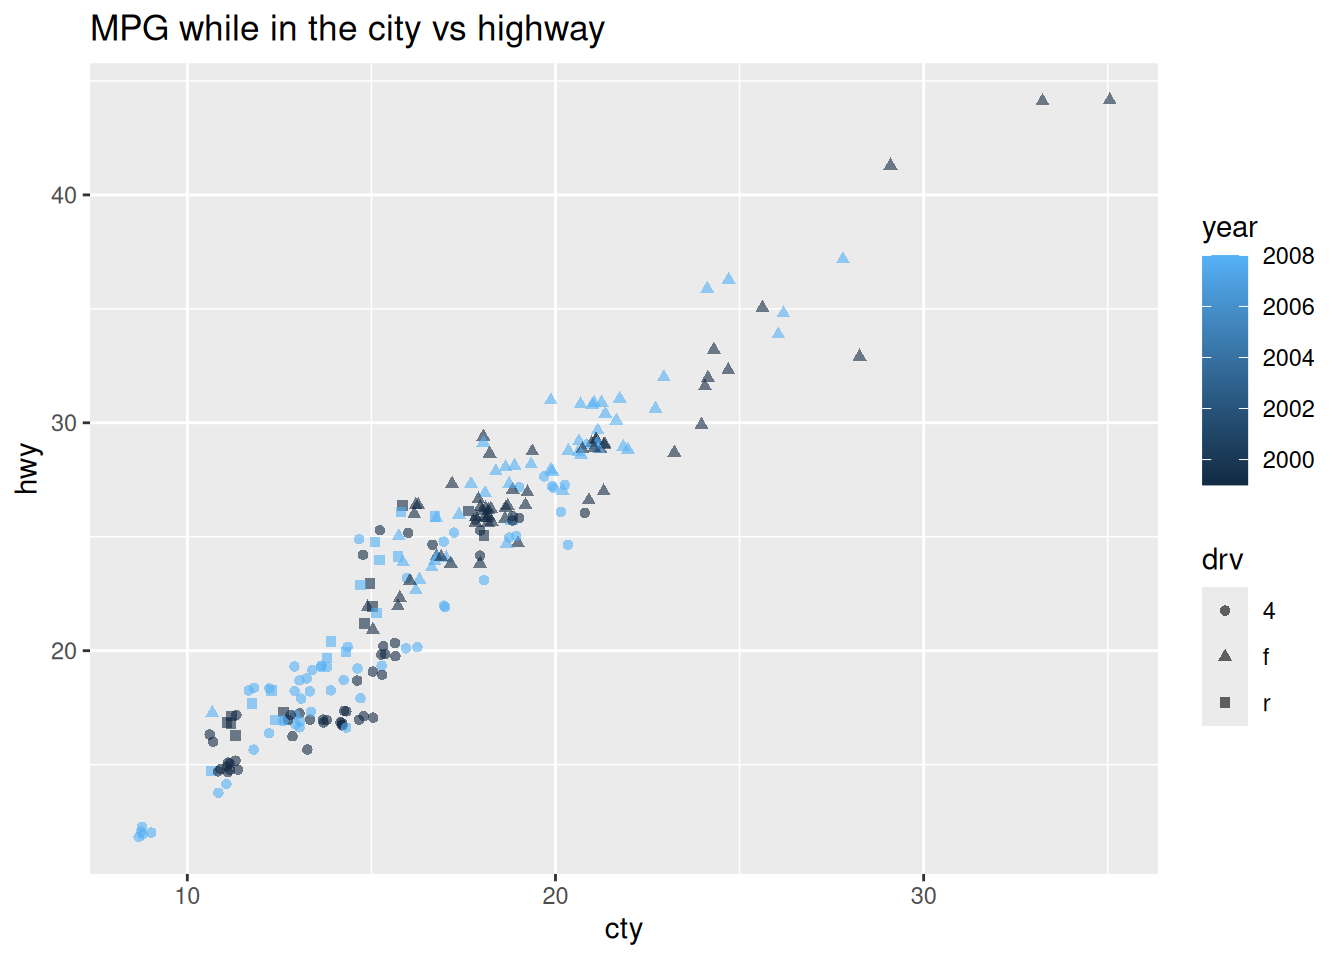
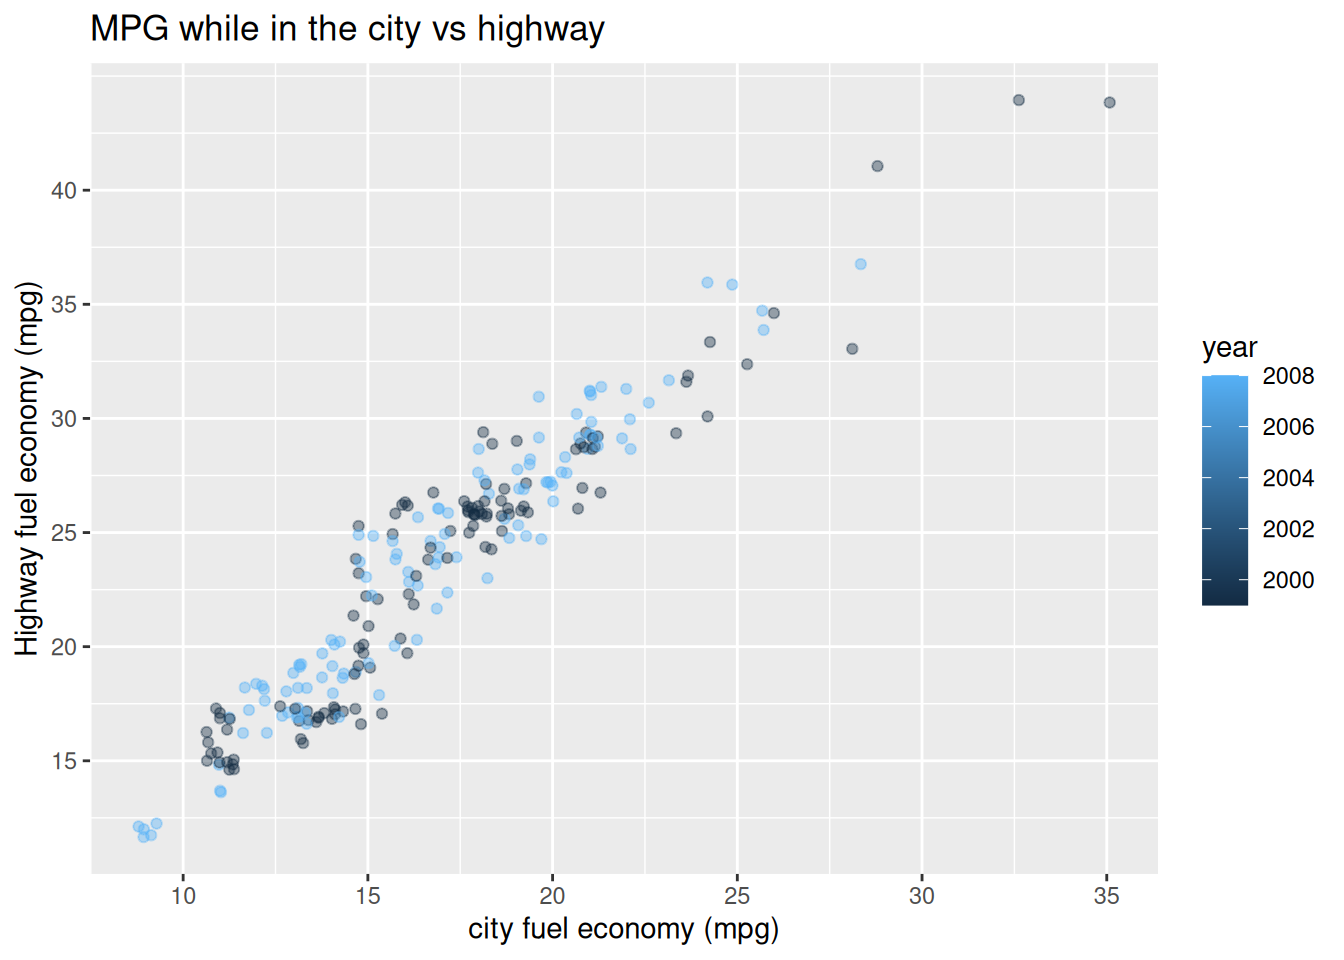
test

diff --git a/docs/posts/ggplot_work/index.html b/docs/posts/ggplot_work/index.html
@@ -9,7 +9,7 @@
 <meta name="author" content="Joshua Matamoros">
 <meta name="dcterms.date" content="2026-08-19">
 
-<title>gg_plot examples – quartoCourseBlog</title>
+<title>My First Project (Kinda) – quartoCourseBlog</title>
 <style>
 code{white-space: pre-wrap;}
 span.smallcaps{font-variant: small-caps;}
@@ -152,7 +152,7 @@ pre > code.sourceCode > span > a:first-child::before { text-decoration: underlin
 <header id="title-block-header" class="quarto-title-block default page-columns page-full">
   <div class="quarto-title-banner page-columns page-full">
     <div class="quarto-title column-body">
-      <h1 class="title">gg_plot examples</h1>
+      <h1 class="title">My First Project (Kinda)</h1>
                                 <div class="quarto-categories">
                 <div class="quarto-category">project</div>
                 <div class="quarto-category">code</div>
@@ -192,7 +192,8 @@ pre > code.sourceCode > span > a:first-child::before { text-decoration: underlin
 
 
 
-<p>I took a week long course on R. We spent our time learning and coding with ggplot.</p>
+<p>Hello! Welcome to my first project (kinda). This blog will demonstrate some skills that I have learned after taking a week long course for R.</p>
+<p>Down below I have coded some graphs involving data about vehicles and their mileage depending on whether its being driven in city conditions or highway conditions.</p>
 <div class="cell">
 <div class="code-copy-outer-scaffold"><div class="sourceCode cell-code" id="cb1"><pre class="sourceCode r code-with-copy"><code class="sourceCode r"><span id="cb1-1"><a href="#cb1-1" aria-hidden="true" tabindex="-1"></a><span class="fu">library</span>(ggplot2)</span>
 <span id="cb1-2"><a href="#cb1-2" aria-hidden="true" tabindex="-1"></a></span>
@@ -229,6 +230,9 @@ pre > code.sourceCode > span > a:first-child::before { text-decoration: underlin
 </div>
 </div>
 </div>
+<p>I have also included a data table which mirrors the information displayed on the graph.</p>
+<p>This graph involves minimal coding, only really focusing on how the mileage performs based on the year of the vehicle.</p>
+<p>There are several ways that this graph can be improved.</p>
 <div class="cell">
 <div class="code-copy-outer-scaffold"><div class="sourceCode cell-code" id="cb4"><pre class="sourceCode r code-with-copy"><code class="sourceCode r"><span id="cb4-1"><a href="#cb4-1" aria-hidden="true" tabindex="-1"></a><span class="fu">ggplot</span>(</span>
 <span id="cb4-2"><a href="#cb4-2" aria-hidden="true" tabindex="-1"></a>  <span class="at">data =</span> mpg,</span>
@@ -236,10 +240,14 @@ pre > code.sourceCode > span > a:first-child::before { text-decoration: underlin
 <span id="cb4-4"><a href="#cb4-4" aria-hidden="true" tabindex="-1"></a>    <span class="at">x =</span> cty,</span>
 <span id="cb4-5"><a href="#cb4-5" aria-hidden="true" tabindex="-1"></a>    <span class="at">y =</span> hwy,</span>
 <span id="cb4-6"><a href="#cb4-6" aria-hidden="true" tabindex="-1"></a>    <span class="at">color =</span> year,</span>
-<span id="cb4-7"><a href="#cb4-7" aria-hidden="true" tabindex="-1"></a>    <span class="at">shape =</span> drv</span>
-<span id="cb4-8"><a href="#cb4-8" aria-hidden="true" tabindex="-1"></a>  ) </span>
-<span id="cb4-9"><a href="#cb4-9" aria-hidden="true" tabindex="-1"></a>) <span class="sc">+</span> <span class="fu">geom_point</span>(<span class="at">position =</span> <span class="st">"jitter"</span>, <span class="at">alpha =</span> <span class="fl">0.6</span>) <span class="sc">+</span></span>
-<span id="cb4-10"><a href="#cb4-10" aria-hidden="true" tabindex="-1"></a>  <span class="fu">labs</span>(<span class="at">title =</span> <span class="st">"MPG while in the city vs highway"</span>)</span></code></pre></div><button title="Copy to Clipboard" class="code-copy-button"><i class="bi"></i></button></div>
+<span id="cb4-7"><a href="#cb4-7" aria-hidden="true" tabindex="-1"></a>  ) </span>
+<span id="cb4-8"><a href="#cb4-8" aria-hidden="true" tabindex="-1"></a>) <span class="sc">+</span> <span class="fu">geom_point</span>(<span class="at">position =</span> <span class="st">"jitter"</span>, <span class="at">alpha =</span> <span class="fl">0.4</span>)  <span class="sc">+</span></span>
+<span id="cb4-9"><a href="#cb4-9" aria-hidden="true" tabindex="-1"></a>  <span class="fu">labs</span>(</span>
+<span id="cb4-10"><a href="#cb4-10" aria-hidden="true" tabindex="-1"></a>    <span class="at">title =</span> <span class="st">"MPG while in the city vs highway"</span>,</span>
+<span id="cb4-11"><a href="#cb4-11" aria-hidden="true" tabindex="-1"></a>    <span class="at">x =</span> <span class="st">"city fuel economy (mpg)"</span>,</span>
+<span id="cb4-12"><a href="#cb4-12" aria-hidden="true" tabindex="-1"></a>    <span class="at">y =</span> <span class="st">"Highway fuel economy (mpg)"</span>,</span>
+<span id="cb4-13"><a href="#cb4-13" aria-hidden="true" tabindex="-1"></a>    ) <span class="sc">+</span>  <span class="fu">scale_y_continuous</span>(<span class="at">breaks =</span> <span class="fu">seq</span>(<span class="dv">0</span>, <span class="dv">40</span>, <span class="at">by =</span> <span class="dv">5</span>)) <span class="sc">+</span></span>
+<span id="cb4-14"><a href="#cb4-14" aria-hidden="true" tabindex="-1"></a>    <span class="fu">scale_x_continuous</span>(<span class="at">breaks =</span> <span class="fu">seq</span>(<span class="dv">0</span>, <span class="dv">40</span>, <span class="at">by =</span> <span class="dv">5</span>)) </span></code></pre></div><button title="Copy to Clipboard" class="code-copy-button"><i class="bi"></i></button></div>
 <div class="cell-output-display">
 <div>
 <figure class="figure">
@@ -248,6 +256,8 @@ pre > code.sourceCode > span > a:first-child::before { text-decoration: underlin
 </div>
 </div>
 </div>
+<p>Some ways that this graph was improved were the additions of labels on the x-axis and the y-axis. A title was also added, and more increments were added to understand the graph more clearly.</p>
+<p>For the last graph, I will be implementing all the skills I have learned in this course for graph making.</p>
 
 
 

diff --git a/docs/index.html b/docs/index.html
@@ -271,7 +271,7 @@ Joshua Matamoros
 </a>
 </div>
 </div>
-<div class="quarto-post image-right" data-index="2" data-categories="cHJvamVjdCUyQ2NvZGU=" data-listing-date-sort="1787097600000" data-listing-file-modified-sort="1787163211739" data-listing-date-modified-sort="NaN" data-listing-reading-time-sort="1" data-listing-word-count-sort="107">
+<div class="quarto-post image-right" data-index="2" data-categories="cHJvamVjdCUyQ2NvZGU=" data-listing-date-sort="1787097600000" data-listing-file-modified-sort="1787164444920" data-listing-date-modified-sort="NaN" data-listing-reading-time-sort="2" data-listing-word-count-sort="276">
 <div class="thumbnail"><a href="./posts/ggplot_work/index.html" class="no-external">
 
 <p class="card-img-top"><img src="posts/ggplot_work/index_files/figure-html/unnamed-chunk-1-1.png"  class="thumbnail-image card-img"/></p>
@@ -279,7 +279,7 @@ Joshua Matamoros
 </a></div>
 <div class="body">
 <h3 class="no-anchor listing-title">
-<a href="./posts/ggplot_work/index.html" class="no-external">gg_plot examples</a>
+<a href="./posts/ggplot_work/index.html" class="no-external">My First Project (Kinda)</a>
 </h3>
 <div class="listing-categories">
 
@@ -289,7 +289,7 @@ Joshua Matamoros
 
 </div>
 <div class="delink listing-description"><a href="./posts/ggplot_work/index.html" class="no-external">
-I took a week long course on R. We spent our time learning and coding with ggplot.
+Hello! Welcome to my first project (kinda). This blog will demonstrate some skills that I have learned after taking a week long course for R.
 </a></div>
 </div>
 <div class="metadata">
